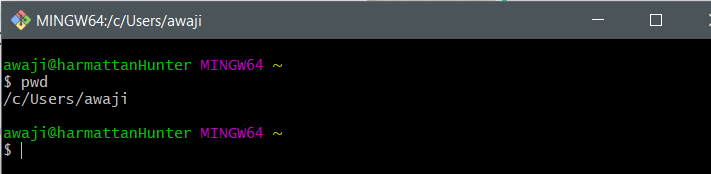
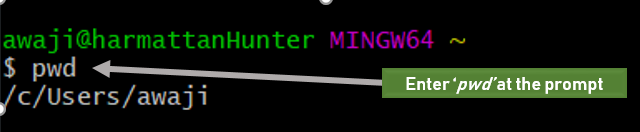
Lesson 2: Updated (to be reviewed by Ayo):

diff --git a/Lesson-2.md b/Lesson-2.md
@@ -64,6 +64,8 @@ This is called a prompt. It's where you enter/type the commands into the shell.
 
 Enough long story, let's learn a few shell commands.
 
+
+
 ## Basic Shell Commands
 
 ### Knowing where you are
@@ -77,10 +79,73 @@ To view your working directory, type *pwd* at the prompt and press **Enter**.
 <pre>
 </pre>
 
+When you press **Enter**, the command runs and prints a result on the next line. In my case, the shell printed
+
+` /c/Users/awaji `
+
+A simple interpretation of this result is that it shows my current location on the disk. The files on your hard disk are not scattered randomly; rather they are organized in various categories using folders or directories.
+
+The output of the 'pwd' program says (reading from right to left) I'm in a folder called 'awaji', which is in a folder called 'Users', which is stored on my hard disk, the C drive.
+
+This means any program or command I run will use this location as a sort of reference. Let's learn a few more commands to throw some light on this.
+
+## The LS command
+The LS command (or list) shows the content of the current working directory. Enter **ls** at the command prompt to try it.
+
+![GitBash](./screenshots/14-List.png)  
+<pre>
+</pre>
+
+The ls command lists all the files and folders in our working directory. In my screenshot, it displays the contents of the 'awaji' folder. 
+
+What if we would like to change our working directory, sort of move around or navigate through the folders on our disk?
+
+Well, there is a command for that too. It's called 'cd'
+
+## The CD command
+This command is also known as the 'change directory' command. You use it to navigate through your filesystem (hard disk). Let's try it.
+
+In our last example, we ran the LS command. To navigate to the "documents' folder, type
+
+` cd Documents `
+
+[screenshot cd documents]
+
+Type **ls** to view the contents of documents. Our Git-It folder should be displayed in the result.
+
+[Git it display]
+
+Exercise:
+    Using what you have learnt, can you navigate to the Git-It folder?
+    Confirm you are in the Git-It folder by running the *pwd* command.
+
+Other info:
+    To go to a parent folder, use the 'cd ..' command. The ".." refers to parent folder.
+
+We now know enough about the command line to begin working with GIT. In the next lesson, we will initialize our GIT repo and begin to build our homepage.
+
+<!-- 
+
+## The CD Command (move to documents)
+
+## the mkdir command (make directory)
+
+## a brief on filepath
+
+## further study on the command line
+
+## Initializing our GIT repository
+
+## the git init command
+
+## working directory, repo, and index/staging area
+## the git add command
+
+## the git commit
     seeing others (ls) (command line and modifiers)
     looking around
     moving out
     moving up
     moving down
 
-
+ -->
